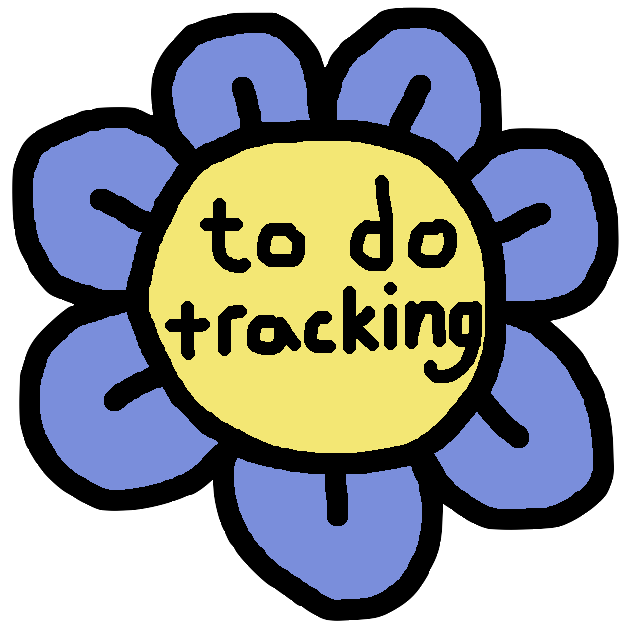
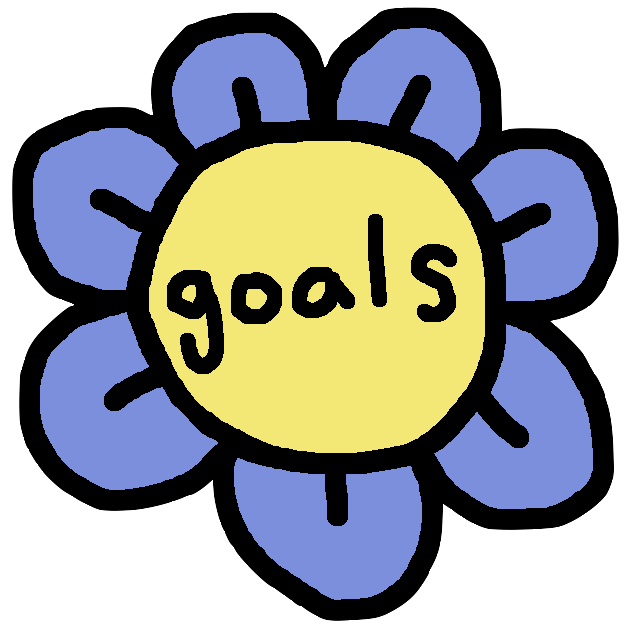
refactoring, updating images, outlining structure

Changed region(s): [[0.2397, 0.2701, 0.7792, 0.6303]]

diff --git a/style.css b/style.css
@@ -7,15 +7,29 @@ font-family: 'Roboto', sans-serif;
 font-size:medium;
 }
 
-/******************/
-/** INDEX STYLING **/
-/******************/
-
 body {
 display: flex;
 flex-direction: column;
 margin: auto;
 }
+
+img{
+max-width: 100%;
+}
+a{
+color: cadetblue;
+text-decoration: none;
+font-weight: bold;
+}
+a:visited{
+color: cadetblue;
+text-decoration: none;
+font-weight: bold;
+}
+
+/******************************/
+/**       INDEX STYLING      **/
+/******************************/
 
 /* scrolling hillside background */
 .scene-wrapper {
@@ -42,6 +56,7 @@ margin: auto;
     to   { transform: translateX(-50%); }
 }
 
+/* flower spacing & size */
 .links_wrapper {
 display: flex;
 padding: 5em;
@@ -71,8 +86,8 @@ content:url("images/flower_purple_1.png");
 content: url("images/flower_purple.gif");
 }
 
-/* projects link styling */
-.projects_link a img {
+/* portfolio link styling */
+.portfolio_link a img {
 width: 10em;
 }
 .orange_flower_hover_gif img {
@@ -82,8 +97,8 @@ content:url("images/flower_orange_1.png");
 content: url("images/flower_orange.gif");
 }
 
-/* todotracker link styling */
-.todotracker_link a img {
+/* goals link styling */
+.goals_link a img {
 width: 10em;
 }
 .blue_flower_hover_gif img {
@@ -116,7 +131,12 @@ content:url("images/flower_white_1.png");
 .white_flower_hover_gif:hover img {
 content: url("images/flower_white.gif");
 }
-.first_wrapper{
+
+/*********************************/
+/**       ABOUT ME STYLING      **/
+/*********************************/
+
+.about_me_main_wrapper_1 {
 display: flex;
 flex-direction: row;
 justify-content: center;
@@ -124,13 +144,11 @@ padding: 5em;
 text-align: center;
 border: blue 2px solid;
 }
-.first_img_wrapper{
+.about_me_first_img_wrapper{
 border: red 2px solid;
 }
-/* .img_wrapper img{
-    max-width: 30%;
-} */
-.first_text_wrapper{
+
+.about_me_text_wrapper_1 {
 display: flex;
 flex-direction: column;
 border: green 2px solid;
@@ -158,19 +176,6 @@ padding-right: 1em;
 }
 .second_img_wrapper{
 border: red 2px solid;
-}
-img{
-max-width: 100%;
-}
-a{
-color: cadetblue;
-text-decoration: none;
-font-weight: bold;
-}
-a:visited{
-color: cadetblue;
-text-decoration: none;
-font-weight: bold;
 }
 
 /************/

diff --git a/about.html b/about.html
@@ -19,14 +19,16 @@
                 <img src="images/flower_white_1.png" alt="Return to Home">
             </a>
         </div>
-        <div class="first_wrapper">
-            <div class="first_img_wrapper">
-                <img src="images/temporary_photo.png" alt="Temporary photo" class="img_of_me">
+        <div class="about_me_main_wrapper_1">
+            <div class="about_me_first_img_wrapper">
+                <img src="images/temporary_photo.png" alt="Image of Me" class="img_of_me">
             </div>
-            <div class="first_text_wrapper">
+            <div class="about_me_text_wrapper_1">
                 <p>hi there! &#x1F44B;</p>
-                <p>my name is nate, and I'm a software engineer and web developer. I enjoy building things that are both functional and visually appealing. I also like to learn new technologies and improve my skills.</p>
-                <p>test</p>
+                <p>intro/context</p>
+                <p>introing the other links as well (if u wanna see my professional projects, click this, if u wanna see more about me, click this)</p>
+                <p>contact me</p>
+                
             </div>
         </div>
         <div class="second_wrapper">
@@ -35,6 +37,12 @@
             </div>
             <div class="second_img_wrapper">
 
+            </div>
+        </div>
+        <div class="about_me_main_wrapper_3">
+            <div class="about_me_text_wrapper_3">
+                <p>Want to learn what I'm currently working on?</p>
+                <p>Check out my <a href="projects.html">projects</a> page!</p>
             </div>
         </div>
     </body>

diff --git a/index.html b/index.html
@@ -21,21 +21,20 @@
     </div>
 </div>
 
-<!-- <h2>nate lalor</h2> ------  SHOULD I ADD A TITLE HERE? -->
 <div class="links_wrapper">
     <div class="about_link">
         <a href="about.html" class="purple_flower_hover_gif">
         <img src="images/email.png" alt="About Me">
         </a>
     </div>
-    <div class="projects_link">
-        <a href="projects.html" class="orange_flower_hover_gif">
-        <img src="images/flower_orange_1.png" alt="Projects">
+    <div class="portfolio_link">
+        <a href="portfolio.html" class="orange_flower_hover_gif">
+        <img src="images/flower_orange_1.png" alt="Portfolio">
         </a>
     </div>
-    <div class="todotracker_link">
-        <a href="todotracker.html" class="blue_flower_hover_gif">
-        <img src="images/flower_blue_1.png" alt="To-Do Tracker">
+    <div class="goals_link">
+        <a href="goals.html" class="blue_flower_hover_gif">
+        <img src="images/flower_blue_1.png" alt="Goals">
         </a>
     </div>
     <div class="mystery_link">
@@ -44,6 +43,7 @@
         </a>
     </div>
     </div>
+    <!-- <h2>nate lalor</h2> -->
 </body>
 
 <!--

diff --git a/portfolio.html b/portfolio.html
@@ -16,11 +16,21 @@
     <body>
         <div class="return_to_home">
             <a href="index.html" class="white_flower_hover_gif">
-                <img src="images/flower_white_1.png" alt="Return to Home">
+                <img src="imagesflower_white_1.png" alt="Return to Home">
             </a>
         </div>
-        <div>
-            <p>tracking data dashboard perhaps? c:</p>
+        <div class="first_wrapper">
+            <div class="first_img_wrapper">
+                <img src="images/temporary_photo.png" alt="Temporary photo" class="img_of_me">
+            </div>
+            <div class="first_text_wrapper">
+                <p>hi there! &#x1F44B;</p>
+                <p>projects will go here eventually</p>
+                <p>skills, softwares i am familiar with</p>
+                <p>github projects, categorized by skill (software dev, data, web dev, etc)</p>
+                <p> resume pdf link or link to external doc</p>
+                <p>LinkedIn, Kaggle, Github here too? more than just the footer?</p>
+            </div>
         </div>
     </body>
 

diff --git a/goals.html b/goals.html
@@ -16,18 +16,16 @@
     <body>
         <div class="return_to_home">
             <a href="index.html" class="white_flower_hover_gif">
-                <img src="imagesflower_white_1.png" alt="Return to Home">
+                <img src="images/flower_white_1.png" alt="Return to Home">
             </a>
         </div>
-        <div class="first_wrapper">
-            <div class="first_img_wrapper">
-                <img src="images/temporary_photo.png" alt="Temporary photo" class="img_of_me">
-            </div>
-            <div class="first_text_wrapper">
-                <p>hi there! &#x1F44B;</p>
-                <p>projects will go here eventually</p>
-                <p>test</p>
-            </div>
+        <div>
+            <p>tracking data dashboard perhaps? c:</p>
+            <p>outline the "who I am", more than just a name</p>
+            <p>showcase current goals</p>
+            <p>showcase completed goals</p>
+            <p>link to medium</p>
+            <p>maybe link to instagram pages here?</p>
         </div>
     </body>
 
